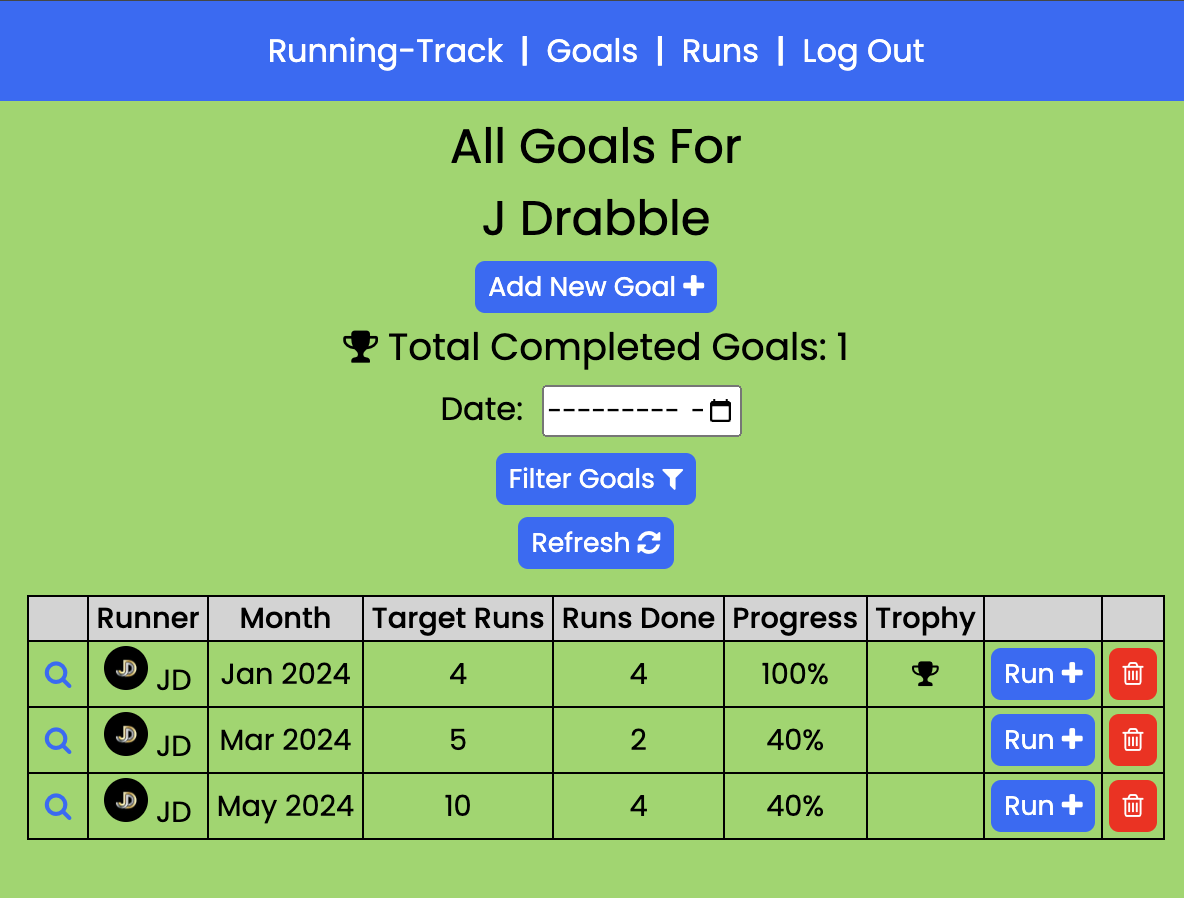
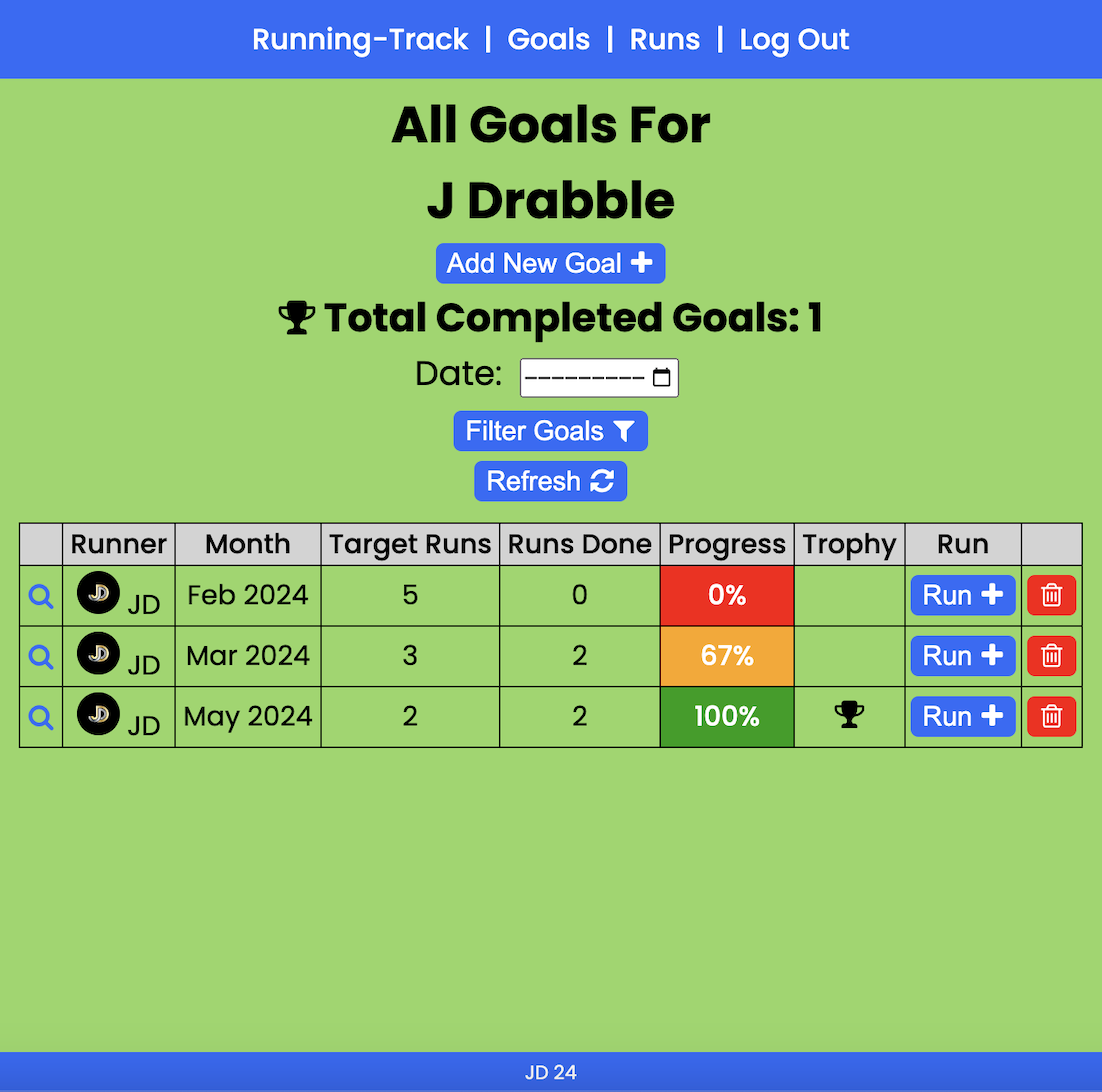
update results logic

diff --git a/controllers/runs.js b/controllers/runs.js
@@ -15,21 +15,21 @@ module.exports = {
 async function index(req, res) {
   const run = await Run.find({}).sort({ date: 1 });
 
-  let total = 0;
+  let meters = 0;
   for (i = 0; i < run.length; i++) {
     if (run[i].status === "complete") {
-      total += run[i].distance;
+      meters += run[i].distance;
     }
   }
-  let totalDistance = Math.round(total / 1000);
+  let totalDistance = (meters / 1000).toFixed(2);
 
-  let time = 0;
+  let minutes = 0;
   for (i = 0; i < run.length; i++) {
     if (run[i].status === "complete") {
-      time += run[i].time;
+      minutes += run[i].time;
     }
   }
-  let totalTime = Math.round(time / 60);
+  let totalTime = (minutes / 60).toFixed(2);
 
   //console.log(run);
   res.render("runs/index", {
@@ -43,7 +43,12 @@ async function index(req, res) {
 
 async function newRun(req, res) {
   const goal = await Goal.findOne({ _id: req.params.id, user: req.user._id });
-  res.render("runs/new", { goal, dayjs: dayjs, message: "" });
+  if (!goal) {
+    return res.redirect("/");
+  } else if (goal.user._id.toString() === req.user.id);
+  {
+    res.render("runs/new", { goal, dayjs: dayjs, message: "" });
+  }
 }
 
 async function create(req, res) {
@@ -53,19 +58,19 @@ async function create(req, res) {
   try {
     let dateCheck = Date.parse(req.body.date);
     let dateChecked = new Date(dateCheck);
-    console.log(
-      "DATES",
-      dateChecked.getMonth(),
-      dateChecked.getYear(),
-      goal.startDate.getMonth(),
-      goal.startDate.getYear()
-    );
+    // console.log(
+    //   "DATES",
+    //   dateChecked.getMonth(),
+    //   dateChecked.getYear(),
+    //   goal.startDate.getMonth(),
+    //   goal.startDate.getYear()
+    // );
 
     if (
       dateChecked.getMonth() !== goal.startDate.getMonth() &&
       dateChecked.getYear() !== goal.startDate.getYear()
     ) {
-      console.log("NO MATCH");
+      // console.log("NO MATCH");
 
       res.render("runs/new", {
         goal,
@@ -84,7 +89,7 @@ async function create(req, res) {
         speedCalc = 0;
       }
 
-      console.log("MATCH");
+      // console.log("MATCH");
 
       let runData = {
         user: req.user._id,
@@ -102,8 +107,14 @@ async function create(req, res) {
 
       goal.runs.push(run.id);
       await goal.save();
+
+      res.redirect("/goals");
     }
-    res.redirect("/goals");
+    res.render("runs/new", {
+      goal,
+      dayjs: dayjs,
+      message: "Date does not match goal month and year",
+    });
   } catch (error) {
     //console.log(error);
 
@@ -118,7 +129,12 @@ async function create(req, res) {
 async function show(req, res) {
   //const run = await Run.findById(req.params.id);
   const run = await Run.findOne({ _id: req.params.id, user: req.user._id });
-  res.render("runs/show", { run, dayjs: dayjs, message: "" });
+  if (!run) {
+    return res.redirect("/");
+  } else if (run.user._id.toString() === req.user.id);
+  {
+    res.render("runs/show", { run, dayjs: dayjs, message: "" });
+  }
 }
 
 async function update(req, res) {
@@ -163,8 +179,14 @@ async function update(req, res) {
       runUpdate.terrain = req.body.terrain;
       runUpdate.status = req.body.status;
       await runUpdate.save();
+
+      res.redirect("/runs");
     }
-    res.redirect("/runs");
+    res.render("runs/show", {
+      run,
+      dayjs: dayjs,
+      message: "Date does not match goal month and year",
+    });
   } catch (err) {
     //console.log(err);
     res.render("runs/show", {
@@ -202,21 +224,23 @@ async function search(req, res) {
         message: "No runs found",
       });
     }
-    let total = 0;
+
+    let meters = 0;
     for (i = 0; i < run.length; i++) {
       if (run[i].status === "complete") {
-        total += run[i].distance;
+        meters += run[i].distance;
       }
     }
-    let totalDistance = Math.round(total / 1000);
-    let time = 0;
+    let totalDistance = (meters / 1000).toFixed(2);
+
+    let minutes = 0;
     for (i = 0; i < run.length; i++) {
       if (run[i].status === "complete") {
-        time += run[i].time;
+        minutes += run[i].time;
       }
     }
-    let totalTime = Math.round(time / 60);
-    // console.log("RESULT", run);
+    let totalTime = (minutes / 60).toFixed(2);
+
     res.render("runs/index", {
       run,
       totalDistance,

diff --git a/public/stylesheets/style.css b/public/stylesheets/style.css
@@ -144,14 +144,21 @@ button > i {
   padding: 1px;
 }
 
-.clap-button {
+.clap-button-active {
   display: flex;
   background-color: lightgray;
   height: 28px;
   width: 28px;
 }
 
-.clap-button >img {
+.clap-button {
+  display: flex;
+  background-color: orange;
+  height: 28px;
+  width: 28px;
+}
+
+.clap-button >img, .clap-button-active >img {
   position: absolute;
   height: 22px;
   width: 22px;
@@ -182,6 +189,24 @@ td button {
   border-radius: 50%;
   height: 27px;
   margin-top: 3px;
+}
+
+.red {
+  background-color: red;
+  color: white;
+  font-weight: 450;
+}
+
+.amber {
+  background-color: orange;
+  color: white;
+  font-weight: 450;
+}
+
+.green {
+  background-color: rgb(0, 158, 0);
+  color: white;
+  font-weight: 450;
 }
 
 @media screen and (max-width: 400px) {

diff --git a/controllers/goals.js b/controllers/goals.js
@@ -72,8 +72,13 @@ async function create(req, res) {
 
 async function show(req, res) {
   const goal = await Goal.findOne({ _id: req.params.id, user: req.user._id });
-  // console.log(goal._id, req.params.id, goal.user, req.user._id);
-  res.render("goals/show", { goal, dayjs: dayjs, message: "" });
+  //console.log(goal.user._id.toString(), req.user.id);
+  if (!goal) {
+    return res.redirect("/");
+  } else if (goal.user._id.toString() === req.user.id);
+  {
+    res.render("goals/show", { goal, dayjs: dayjs, message: "" });
+  }
 }
 
 async function update(req, res) {
